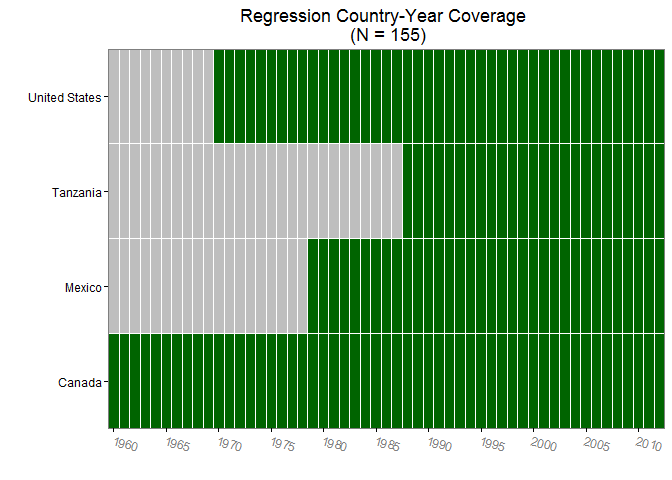
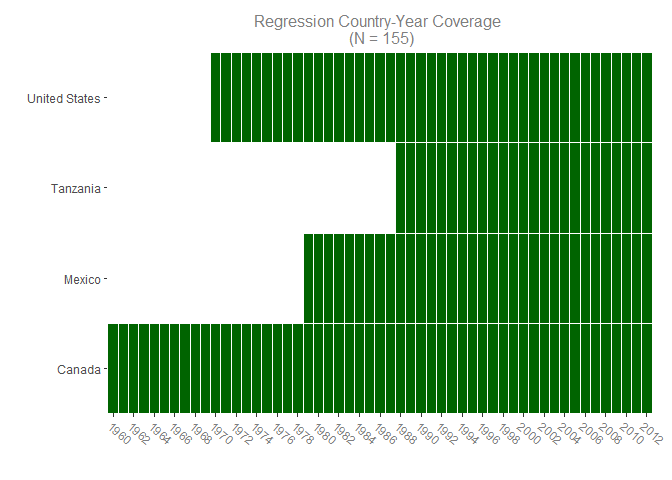
fixed quotation-marks problem

diff --git a/README.html b/README.html
@@ -106,7 +106,7 @@ wdi.sample &lt;-<span class="st"> </span><span class="kw">WDI</span>(<span class
           <span class="dt">unitvar =</span> <span class="st">&quot;country&quot;</span>, <span class="dt">output =</span> <span class="st">&quot;latex.table&quot;</span>)</code></pre>
 <pre><code>## 
 ## % Table created by stargazer v.5.2 by Marek Hlavac, Harvard University. E-mail: hlavac at fas.harvard.edu
-## % Date and time: Tue, Dec 06, 2016 - 3:10:55 PM
+## % Date and time: Tue, Dec 06, 2016 - 4:03:06 PM
 ## \begin{table}[!htbp] \centering 
 ##   \caption{} 
 ##   \label{} 
@@ -195,7 +195,7 @@ wdi.sample &lt;-<span class="st"> </span><span class="kw">WDI</span>(<span class
 <pre class="sourceCode r"><code class="sourceCode r"> <span class="kw">coverage</span>(<span class="dt">fit =</span> lm.fit, <span class="dt">timevar =</span> <span class="st">&quot;year&quot;</span>,
          <span class="dt">unitvar =</span> <span class="st">&quot;country&quot;</span>, <span class="dt">output =</span> <span class="st">&quot;visual&quot;</span>)</code></pre>
[1 lines of base64/hex data omitted]
-<p>Can we make this look nicer? To do so, we can ask coverage to give us the underlying code for the plot:</p>
+<p>We may have many reasons to customize this graphic. One way to do so is to ask coverage to give us the underlying code for the plot:</p>
 <pre class="sourceCode r"><code class="sourceCode r"> <span class="kw">coverage</span>(<span class="dt">fit =</span> lm.fit, <span class="dt">timevar =</span> <span class="st">&quot;year&quot;</span>,
          <span class="dt">unitvar =</span> <span class="st">&quot;country&quot;</span>, <span class="dt">visual.source =</span> <span class="ot">TRUE</span>)</code></pre>
 <pre><code>## [1] &quot;library(ggplot2)&quot;
@@ -204,16 +204,17 @@ wdi.sample &lt;-<span class="st"> </span><span class="kw">WDI</span>(<span class
 <p>We can then manipulate this if we are not happy with the default settings:</p>
 <pre class="sourceCode r"><code class="sourceCode r"><span class="kw">library</span>(ggplot2)
 base_size &lt;-<span class="st"> </span><span class="dv">11</span> <span class="co"># Larger text size</span>
+
 p &lt;-<span class="st"> </span><span class="kw">ggplot</span>(coverage.df, <span class="kw">aes</span>(Time, Unit))  
 p &lt;-<span class="st"> </span>p +<span class="st"> </span><span class="kw">geom_tile</span>(<span class="kw">aes</span>(<span class="dt">fill =</span> N), <span class="dt">colour =</span> <span class="st">'white'</span>) 
-p &lt;-<span class="st"> </span>p +<span class="st"> </span><span class="kw">scale_fill_gradient</span>(<span class="dt">low =</span> <span class="st">'grey'</span>, <span class="dt">high =</span> <span class="st">'darkgreen'</span>) <span class="co"># Green instead of blue, grey instead of white tiles </span>
+p &lt;-<span class="st"> </span>p +<span class="st"> </span><span class="kw">scale_fill_gradient</span>(<span class="dt">low =</span> <span class="st">'white'</span>, <span class="dt">high =</span> <span class="st">'darkgreen'</span>) <span class="co"># Green instead of blue </span>
 p &lt;-<span class="st"> </span>p +<span class="st"> </span><span class="kw">ggtitle</span>(<span class="kw">paste0</span>(<span class="st">&quot;Regression Country-Year Coverage </span><span class="ch">\n</span><span class="st"> (N = &quot;</span>, <span class="kw">sum</span>(coverage.df$N), <span class="st">&quot;)&quot;</span>)) <span class="co"># Adding title</span>
-p &lt;-<span class="st"> </span>p +<span class="st"> </span><span class="kw">theme_bw</span>(<span class="dt">base_size =</span> base_size) <span class="co"># theme_bw instead of theme_grey </span>
+p &lt;-<span class="st"> </span>p +<span class="st"> </span><span class="kw">theme_grey</span>(<span class="dt">base_size =</span> base_size) <span class="co"># theme_bw instead of theme_grey </span>
 p &lt;-<span class="st"> </span>p +<span class="st"> </span><span class="kw">labs</span>(<span class="dt">x =</span> <span class="st">''</span>, <span class="dt">y =</span> <span class="st">''</span>) <span class="co"># Removing axis labels </span>
-p &lt;-<span class="st"> </span>p +<span class="st"> </span><span class="kw">scale_x_discrete</span>(<span class="dt">expand =</span> <span class="kw">c</span>(<span class="dv">0</span>, <span class="dv">0</span>), <span class="dt">breaks =</span> <span class="kw">seq</span>(<span class="kw">min</span>(<span class="kw">as.numeric</span>(<span class="kw">as.character</span>(coverage.df$Time))), <span class="kw">max</span>(<span class="kw">as.numeric</span>(<span class="kw">as.character</span>(coverage.df$Time))), <span class="dt">by =</span> <span class="dv">5</span>)) +<span class="st"> </span><span class="kw">scale_y_discrete</span>(<span class="dt">expand =</span> <span class="kw">c</span>(<span class="dv">0</span>, <span class="dv">0</span>)) 
-p &lt;-<span class="st"> </span>p +<span class="st"> </span><span class="kw">theme</span>(<span class="dt">legend.position =</span> <span class="st">'none'</span>, <span class="dt">axis.text.x =</span> <span class="kw">element_text</span>(<span class="dt">size =</span> base_size *<span class="st"> </span><span class="fl">0.8</span>, <span class="dt">angle =</span> <span class="dv">345</span>, <span class="dt">hjust =</span> <span class="dv">0</span>, <span class="dt">colour =</span> <span class="st">'grey50'</span>)) <span class="co"># Removing legend, adjusting angle on x-axis tics </span>
+p &lt;-<span class="st"> </span>p +<span class="st"> </span><span class="kw">scale_x_discrete</span>(<span class="dt">expand =</span> <span class="kw">c</span>(<span class="dv">0</span>, <span class="dv">0</span>), <span class="dt">breaks=</span><span class="kw">pretty</span>(<span class="kw">as.numeric</span>(<span class="kw">as.character</span>(coverage.df$Time)), <span class="dt">n=</span><span class="dv">25</span>)) +<span class="st"> </span><span class="kw">scale_y_discrete</span>(<span class="dt">expand =</span> <span class="kw">c</span>(<span class="dv">0</span>, <span class="dv">0</span>)) <span class="co"># Changing number of x-axis tics</span>
+p &lt;-<span class="st"> </span>p +<span class="st"> </span><span class="kw">theme</span>(<span class="dt">legend.position =</span> <span class="st">'none'</span>, <span class="dt">axis.text.x =</span> <span class="kw">element_text</span>(<span class="dt">size =</span> base_size *<span class="st"> </span><span class="fl">0.8</span>, <span class="dt">angle =</span> <span class="dv">320</span>, <span class="dt">hjust =</span> <span class="dv">0</span>, <span class="dt">colour =</span> <span class="st">'grey50'</span>), <span class="dt">plot.margin =</span> <span class="kw">unit</span>(<span class="kw">c</span>(<span class="dv">10</span>, <span class="dv">15</span>, <span class="dv">10</span>, <span class="dv">5</span>), <span class="st">&quot;pt&quot;</span>), <span class="dt">plot.title =</span> <span class="kw">element_text</span>(<span class="dt">color=</span><span class="st">&quot;grey50&quot;</span>, <span class="dt">size=</span><span class="dv">12</span>)) <span class="co"># Removing legend, adjusting angle on x-axis tics, increasing top and bottom margin (order of terms is top, right, bottom, left), changing title color and size.</span>
 p</code></pre>
[2 lines of base64/hex data omitted]
 
 </body>
 </html>

diff --git a/README.md b/README.md
@@ -110,7 +110,7 @@ Or a latex table:
 
     ## 
     ## % Table created by stargazer v.5.2 by Marek Hlavac, Harvard University. E-mail: hlavac at fas.harvard.edu
-    ## % Date and time: Tue, Dec 06, 2016 - 3:10:55 PM
+    ## % Date and time: Tue, Dec 06, 2016 - 4:03:06 PM
     ## \begin{table}[!htbp] \centering 
     ##   \caption{} 
     ##   \label{} 
@@ -232,7 +232,7 @@ Let us return to our WDI data:
 
 ![](README_files/figure-markdown_github/unnamed-chunk-9-1.png)
 
-Can we make this look nicer? To do so, we can ask coverage to give us the underlying code for the plot:
+We may have many reasons to customize this graphic. One way to do so is to ask coverage to give us the underlying code for the plot:
 
 ``` r
  coverage(fit = lm.fit, timevar = "year",
@@ -248,14 +248,15 @@ We can then manipulate this if we are not happy with the default settings:
 ``` r
 library(ggplot2)
 base_size <- 11 # Larger text size
+
 p <- ggplot(coverage.df, aes(Time, Unit))  
 p <- p + geom_tile(aes(fill = N), colour = 'white') 
-p <- p + scale_fill_gradient(low = 'grey', high = 'darkgreen') # Green instead of blue, grey instead of white tiles 
+p <- p + scale_fill_gradient(low = 'white', high = 'darkgreen') # Green instead of blue 
 p <- p + ggtitle(paste0("Regression Country-Year Coverage \n (N = ", sum(coverage.df$N), ")")) # Adding title
-p <- p + theme_bw(base_size = base_size) # theme_bw instead of theme_grey 
+p <- p + theme_grey(base_size = base_size) # theme_bw instead of theme_grey 
 p <- p + labs(x = '', y = '') # Removing axis labels 
-p <- p + scale_x_discrete(expand = c(0, 0), breaks = seq(min(as.numeric(as.character(coverage.df$Time))), max(as.numeric(as.character(coverage.df$Time))), by = 5)) + scale_y_discrete(expand = c(0, 0)) 
-p <- p + theme(legend.position = 'none', axis.text.x = element_text(size = base_size * 0.8, angle = 345, hjust = 0, colour = 'grey50')) # Removing legend, adjusting angle on x-axis tics 
+p <- p + scale_x_discrete(expand = c(0, 0), breaks=pretty(as.numeric(as.character(coverage.df$Time)), n=25)) + scale_y_discrete(expand = c(0, 0)) # Changing number of x-axis tics
+p <- p + theme(legend.position = 'none', axis.text.x = element_text(size = base_size * 0.8, angle = 320, hjust = 0, colour = 'grey50'), plot.margin = unit(c(10, 15, 10, 5), "pt"), plot.title = element_text(color="grey50", size=12)) # Removing legend, adjusting angle on x-axis tics, increasing top and bottom margin (order of terms is top, right, bottom, left), changing title color and size.
 p
 ```
 
